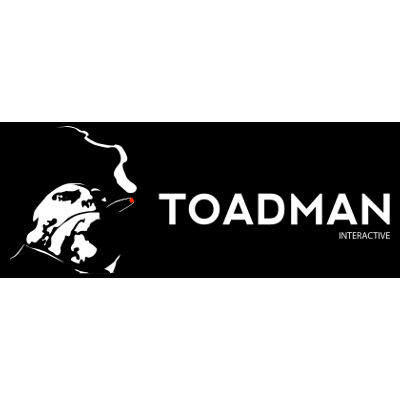
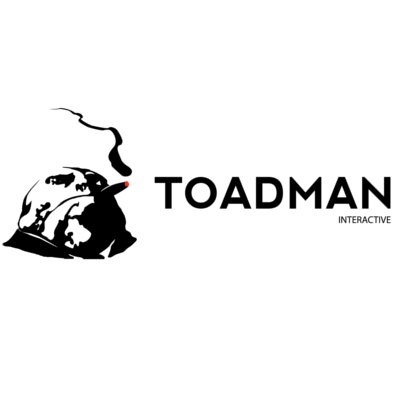
Activated Toadman as a sponsor.

diff --git a/templates/layout.html b/templates/layout.html
@@ -15,7 +15,7 @@
     <link rel="mask-icon" href="/static/assets/favicon/safari-pinned-tab.svg" color="#603cba">
     <meta name="theme-color" content="#FFBA00">
 
-    <link rel="stylesheet" href="/static/style/app.css">
+    <link rel="stylesheet" href="/static/style/app.css?v=1.2">
 </head>
 <body>
     <header>
@@ -83,10 +83,10 @@
                     class="white">
             </div>
 
-            <!--<div class="sponsor gold">
+            <div class="sponsor gold">
                 <img src="/static/img/sponsors/toadman.png" 
                     alt="Toadman Interactive">
-            </div>-->
+            </div>
 
         </div></div>
         <h3>Other sponsors</h3>
